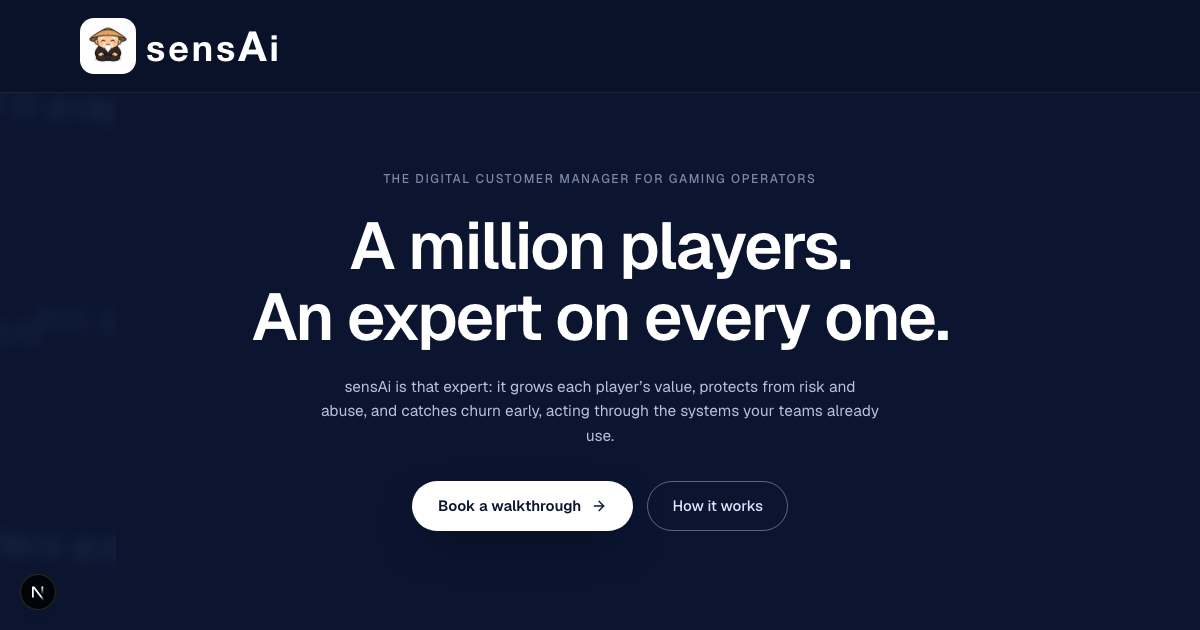
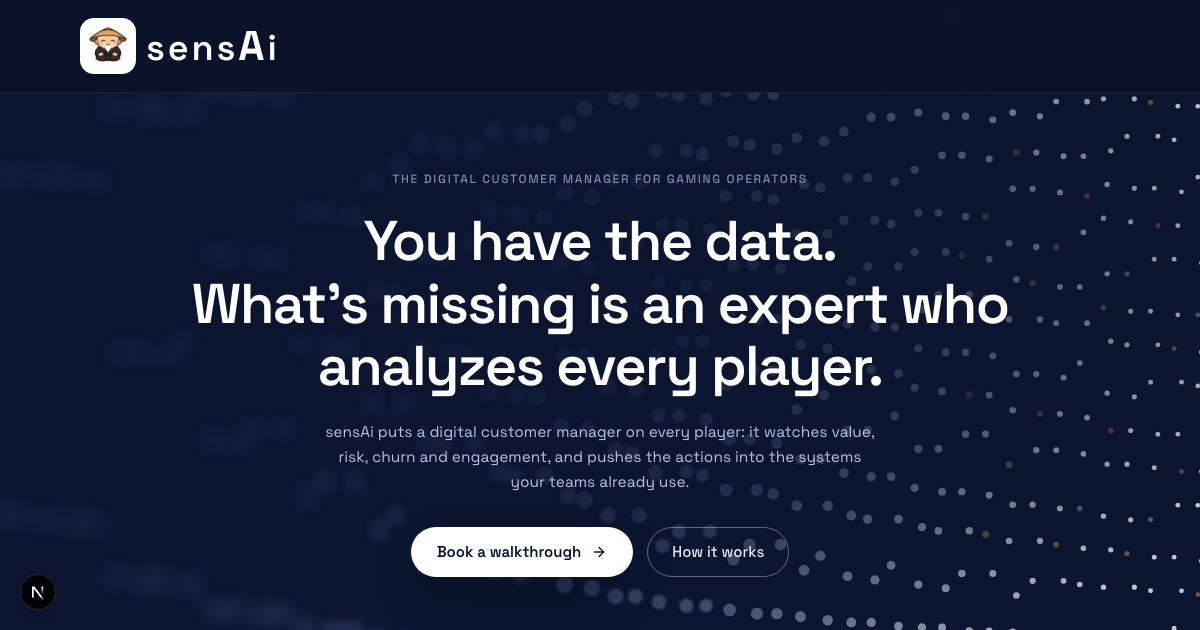
Round 8.2 ship-today: final hero copy, problem headline restored, wordmark font residual
- Hero (LOCKED): 'You have the data. What's missing is an expert who analyzes every
  player.' + canonical one-sentence sub; A-million-players variants retired to deck/spoken
- Problem headline restored: 'Nobody can watch a million players. / So the value leaks.'
- 8.1 residual closed: nav/footer wordmark dropped its -apple-system stack (rendered
  SF, read as Inter) and now inherits Space Grotesk; all visible text verified Grotesk
  on /sense and /book (only intended JetBrains monos excepted)
- /sense title + OG + og-sense.png updated to the new hero

diff --git a/components/sensai/one-pager-v2.tsx b/components/sensai/one-pager-v2.tsx
@@ -146,7 +146,7 @@ function Logo({ className = "", showMascot = false }: { className?: string; show
       )}
       <span
         className={`tracking-[0.08em] ${className}`}
-        style={{ fontFamily: "-apple-system, 'SF Pro Display', 'Helvetica Neue', Helvetica, Arial, sans-serif", fontWeight: 600 }}
+        style={{ fontFamily: 'inherit', fontWeight: 600 }}
       >
         sens<span style={{ textTransform: 'none', fontSize: '1.15em', fontWeight: 700 }}>A</span>i
       </span>
@@ -454,18 +454,18 @@ function Hero() {
             letterSpacing: '0.14em', marginBottom: 22,
           }}>THE DIGITAL CUSTOMER MANAGER FOR GAMING OPERATORS</div>
           <h1 style={{
-            margin: 0, fontSize: 66, lineHeight: 1.08, letterSpacing: -1.8,
+            margin: 0, fontSize: 56, lineHeight: 1.12, letterSpacing: -1.6,
             fontWeight: 600, color: '#fff',
           }}>
-            A million players.<br />An expert on every one.
+            You have the data.<br />What&rsquo;s missing is an expert who analyzes every player.
           </h1>
           <p className="sensai-hero-subline" style={{
             margin: '22px auto 0', fontSize: 15.5, lineHeight: 1.6, color: '#b6c1dd',
             maxWidth: 560,
           }}>
-            sensAi is that expert: it grows each player&rsquo;s value, protects from risk
-            and abuse, and catches churn early, acting through the systems your teams
-            already use.
+            sensAi puts a digital customer manager on every player: it watches value,
+            risk, churn and engagement, and pushes the actions into the systems your
+            teams already use.
           </p>
           <div className="sensai-hero-ctas" style={{ marginTop: 32, display: 'flex', gap: 14, justifyContent: 'center', alignItems: 'center' }}>
             <button
@@ -1144,7 +1144,7 @@ function ProblemSection() {
             letterSpacing: '0.18em', textTransform: 'uppercase', marginBottom: 20,
           }}>Problem</div>
           <h2 style={{ margin: '0 auto', fontSize: 46, fontWeight: 600, letterSpacing: -1.1, lineHeight: 1.12, color: SENS.ink, maxWidth: 840 }}>
-            That expert never existed.<br />So the value leaks.
+            Nobody can watch a million players.<br />So the value leaks.
           </h2>
           <p style={{ margin: '22px auto 0', fontSize: 16, lineHeight: 1.65, color: SENS.inkSoft, maxWidth: 520 }}>
             The problem is not too little data.<br />

diff --git a/app/sense/layout.tsx b/app/sense/layout.tsx
@@ -7,23 +7,23 @@ import './sense.css'
 const grotesk = Space_Grotesk({ subsets: ['latin'], variable: '--font-grotesk' })
 
 export const metadata: Metadata = {
-  title: 'A million players. An expert on every one. | sensAi',
+  title: 'You have the data. What’s missing is an expert who analyzes every player. | sensAi',
   description:
-    'sensAi is that expert: it grows each player’s value, protects from risk and abuse, and catches churn early, acting through the systems your teams already use.',
+    'sensAi puts a digital customer manager on every player: it watches value, risk, churn and engagement, and pushes the actions into the systems your teams already use.',
   robots: { index: false, follow: false },
   openGraph: {
-    title: 'A million players. An expert on every one.',
+    title: 'You have the data. What’s missing is an expert who analyzes every player.',
     description:
-      'sensAi is that expert: it grows each player’s value, protects from risk and abuse, and catches churn early, acting through the systems your teams already use.',
+      'sensAi puts a digital customer manager on every player: it watches value, risk, churn and engagement, and pushes the actions into the systems your teams already use.',
     images: ['/og-sense.png'],
     siteName: 'sensAi',
     type: 'website',
   },
   twitter: {
     card: 'summary_large_image',
-    title: 'A million players. An expert on every one.',
+    title: 'You have the data. What’s missing is an expert who analyzes every player.',
     description:
-      'sensAi is that expert: it grows each player’s value, protects from risk and abuse, and catches churn early, acting through the systems your teams already use.',
+      'sensAi puts a digital customer manager on every player: it watches value, risk, churn and engagement, and pushes the actions into the systems your teams already use.',
     images: ['/og-sense.png'],
   },
 }
